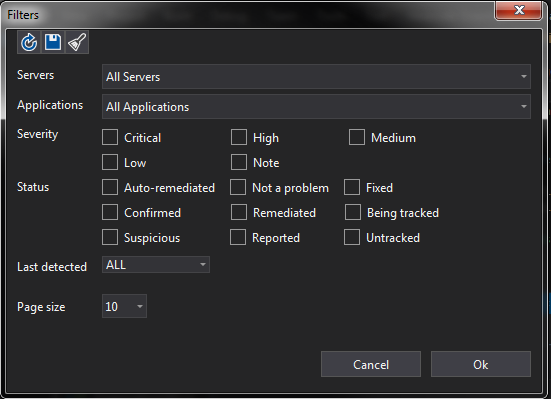
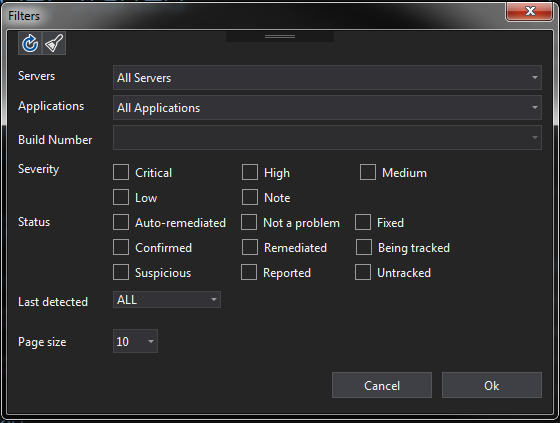
updated image

diff --git a/content/tools/visualstudio/VisualstudioInstall.md b/content/tools/visualstudio/VisualstudioInstall.md
@@ -62,7 +62,7 @@ To filter the list, click the **Filter** button (funnel icon) at the top-left co
 
 <a href="assets/images/VS_ext_filters.png" rel="lightbox" title="Filter vulnerabilities "><img class="thumbnail" src="assets/images/VS_ext_filters.png"/></a>
 
-If you can't see your vulnerabilities list, click the Refresh button. This also applies for Server and Application lists. 
+If you can't see your vulnerabilities list, click the Refresh button. To clear all selected filters, click the Broom button. This also applies for Server and Application lists. 
 
 > **Note:** If you can't see your vulnerabilities even after refreshing the list, you must filter your vulnerabilities. You must repeat this  process after selecting a different organization in the Connection settings so that filters and vulnerabilities are refreshed correctly.
 
